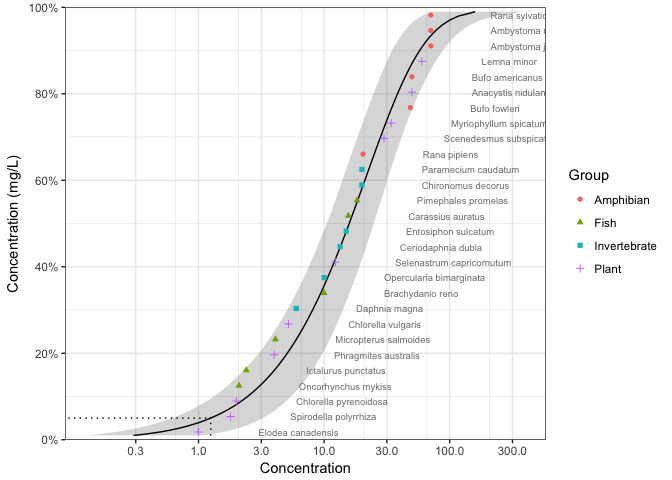
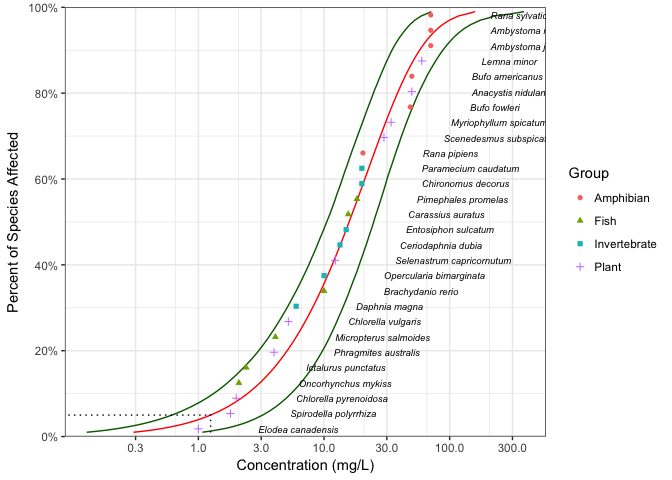
color lines by default

diff --git a/README.md b/README.md
@@ -95,12 +95,12 @@ ssd_gof(boron_dists)
 #> # A tibble: 6 x 9
 #>   dist        ad     ks    cvm   aic  aicc   bic  delta weight
 #>   <chr>    <dbl>  <dbl>  <dbl> <dbl> <dbl> <dbl>  <dbl>  <dbl>
-#> 1 lnorm    0.507 0.107  0.0703   239   240   242 1.42   0.133 
-#> 2 llog     0.487 0.0993 0.0595   241   241   244 3.40   0.0490
-#> 3 gompertz 0.602 0.120  0.0822   238   238   240 0      0.271 
-#> 4 lgumbel  0.829 0.158  0.134    244   245   247 6.58   0.0100
-#> 5 gamma    0.441 0.117  0.0555   238   238   240 0.0190 0.268 
-#> 6 weibull  0.435 0.117  0.0543   238   238   240 0.0140 0.269
+#> 1 lnorm    0.507 0.107  0.0703  239.  240.  242. 1.42   0.133 
+#> 2 llog     0.487 0.0993 0.0595  241.  241.  244. 3.40   0.0490
+#> 3 gompertz 0.602 0.120  0.0822  238.  238.  240. 0.     0.271 
+#> 4 lgumbel  0.829 0.158  0.134   244.  245.  247. 6.58   0.0100
+#> 5 gamma    0.441 0.117  0.0555  238.  238.  240. 0.0190 0.268 
+#> 6 weibull  0.435 0.117  0.0543  238.  238.  240. 0.0140 0.269
 ```
 
 and the model-averaged 5% hazard concentration estimated using `ssd_hc`
@@ -110,7 +110,7 @@ ssd_hc(boron_dists)
 #> # A tibble: 1 x 5
 #>   percent   est    se   lcl   ucl
 #>     <int> <dbl> <dbl> <dbl> <dbl>
-#> 1       5  1.25 0.740 0.605  3.21
+#> 1       5  1.25 0.713 0.596  3.19
 ```
 
 Model-averaged predictions complete with confidence intervals can be
@@ -125,7 +125,7 @@ and plotted together with the original data using
 
 ``` r
 ssd_plot(boron_data, boron_pred, shape = "Group", color = "Group", label = "Species",
-         ylab = "Concentration (mg/L)")
+         xlab = "Concentration (mg/L)")
 ```
 
 ![](tools/README-unnamed-chunk-12-1.png)<!-- -->
@@ -137,6 +137,25 @@ demonstrates how to use `ssdca` in conjunction with `ggplot2` to produce
 custom plots.
 
 A shiny webpage is being developed for non-users of R.
+
+## Citation
+
+``` 
+
+To cite package 'ssdca' in publications use:
+
+  Joe Thorley and Carl Schwarz (2018). ssdca: Species Sensitivity
+  Distributions. R package version 0.0.0.9025.
+
+A BibTeX entry for LaTeX users is
+
+  @Manual{,
+    title = {ssdca: Species Sensitivity Distributions},
+    author = {Joe Thorley and Carl Schwarz},
+    year = {2018},
+    note = {R package version 0.0.0.9025},
+  }
+```
 
 ## Getting Help or Reporting an Issue
 
